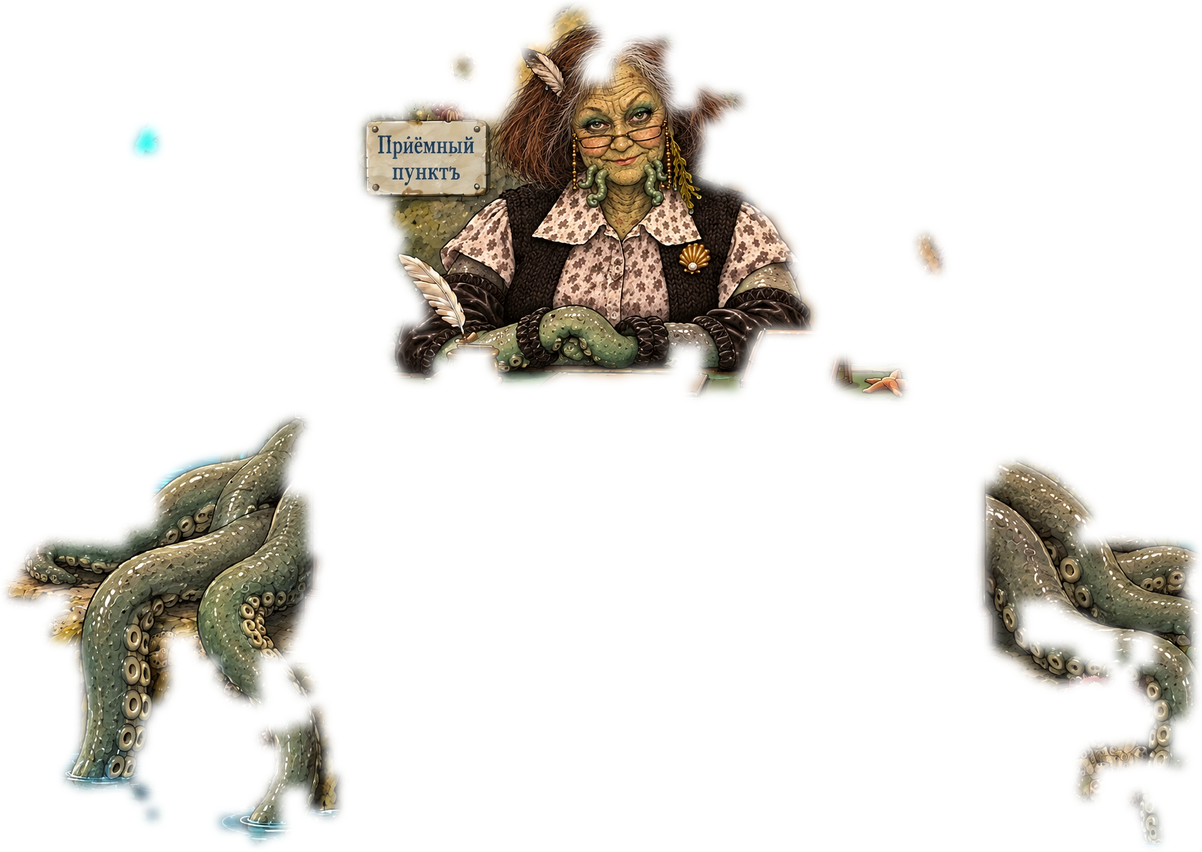
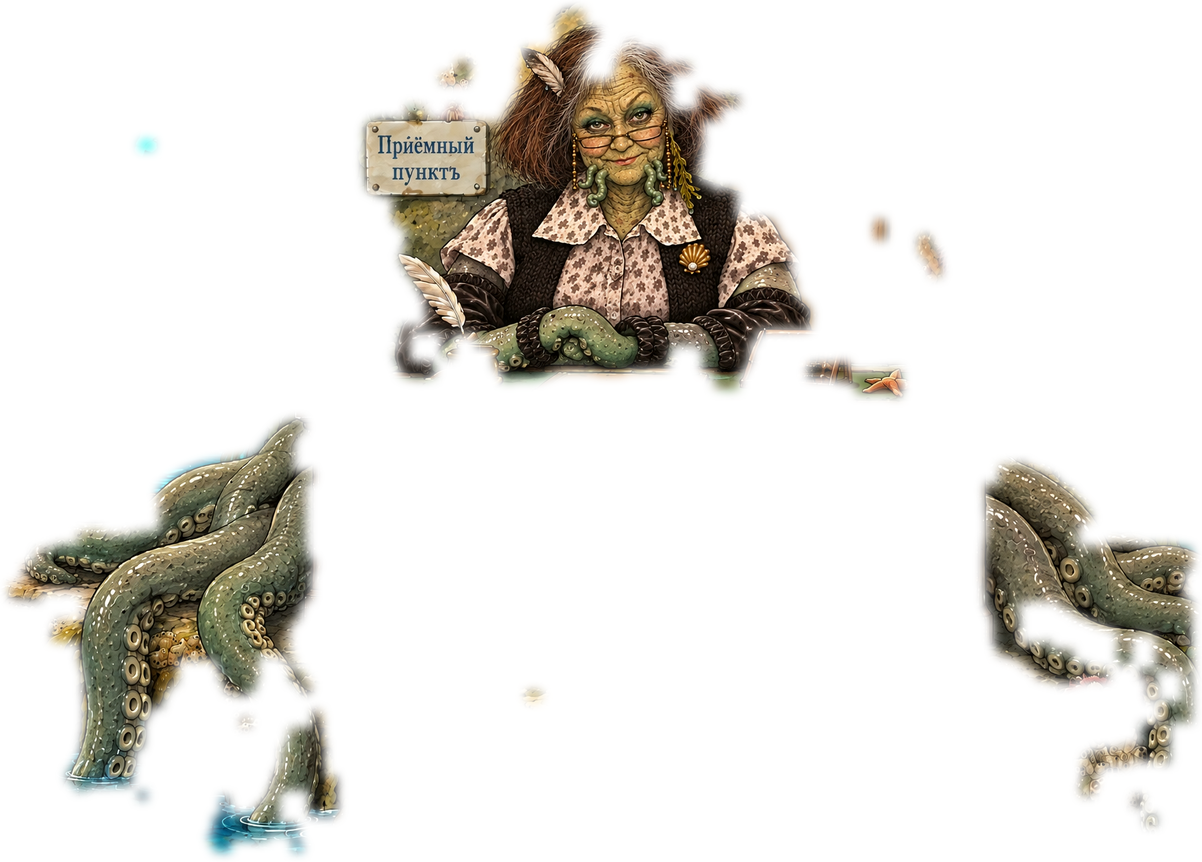
Правки не копить: W5 восстановлен из чистой базы с вклейкой вывесок, вырезка st_w5_kuh пересобрана; правило в спеке §1.2 (замечание автора)
Claude-Session: https://claude.ai/code/session_01Bbq6Feu1G5NepL2mZVzLSv

diff --git a/docs/BJ3_ASSET_SPEC.md b/docs/BJ3_ASSET_SPEC.md
@@ -38,6 +38,12 @@
 
 Вырезку и вклейку делаю я: маска элемента задаётся по базе вручную (прямоугольник или контур с растушёвкой 8–16 px), из варианта берётся только область маски, цвет и яркость подгоняются к базе по кольцу вокруг маски → RGBA-катаут с координатами (кроп ×2 до/после — в отчёте приёмки). Если в области маски вариант разошёлся с базой ракурсом или линией пола — вариант перегенерируется. Состояния одной базы независимы: каждое рисуется от **чистой базы**, не друг от друга, если в таблице не сказано «поверх `st_…`».
 
+**Правки не копить (замечание автора 07.10.2026: «чем чаще перегенерируешь итерациями — тем больше дефектов: „снег“, изуродованные руки, смазанные контуры»).** Каждый проход генератора с кадром-референсом перерисовывает **весь** кадр и добавляет шум: белые точки, мозаичную рябь на ровных местах, мутные контуры. Проверено на W2 (шесть правок подряд) и W5 (две). Поэтому:
+1. Правленый кадр целиком **не принимается**. Из него берётся только изменённый участок, который вклеивается в **чистый исходник** (генерация с нуля) тем же инструментом вырезки (`tools/assets/cutout.py` или прямоугольник с растушёвкой). Так восстановлен `room_w5.png` 07.10.2026.
+2. Правка поверх правки запрещена: следующая правка снова делается от чистого исходника.
+3. Если меняется много (композиция, геометрия, палитра), кадр генерируется **с нуля** полным промптом, где собраны все принятые требования; принятые кадры подаются только как референс стиля.
+4. На приёмке — сравнение крупным планом (×2) с исходником: «снег», рябь, руки, контуры.
+
 ### 1.3. Стиль
 
 - Как BJ2, чтобы портреты Лапидуса и Предка из BJ2 не выпали: чёткий тёмный контур пером, акварельно-гуашевая заливка с лёгкой текстурой бумаги, приглушённая палитра, мягкие тени; без фотореализма, 3D и глянца. Пропорции слегка утрированы.
